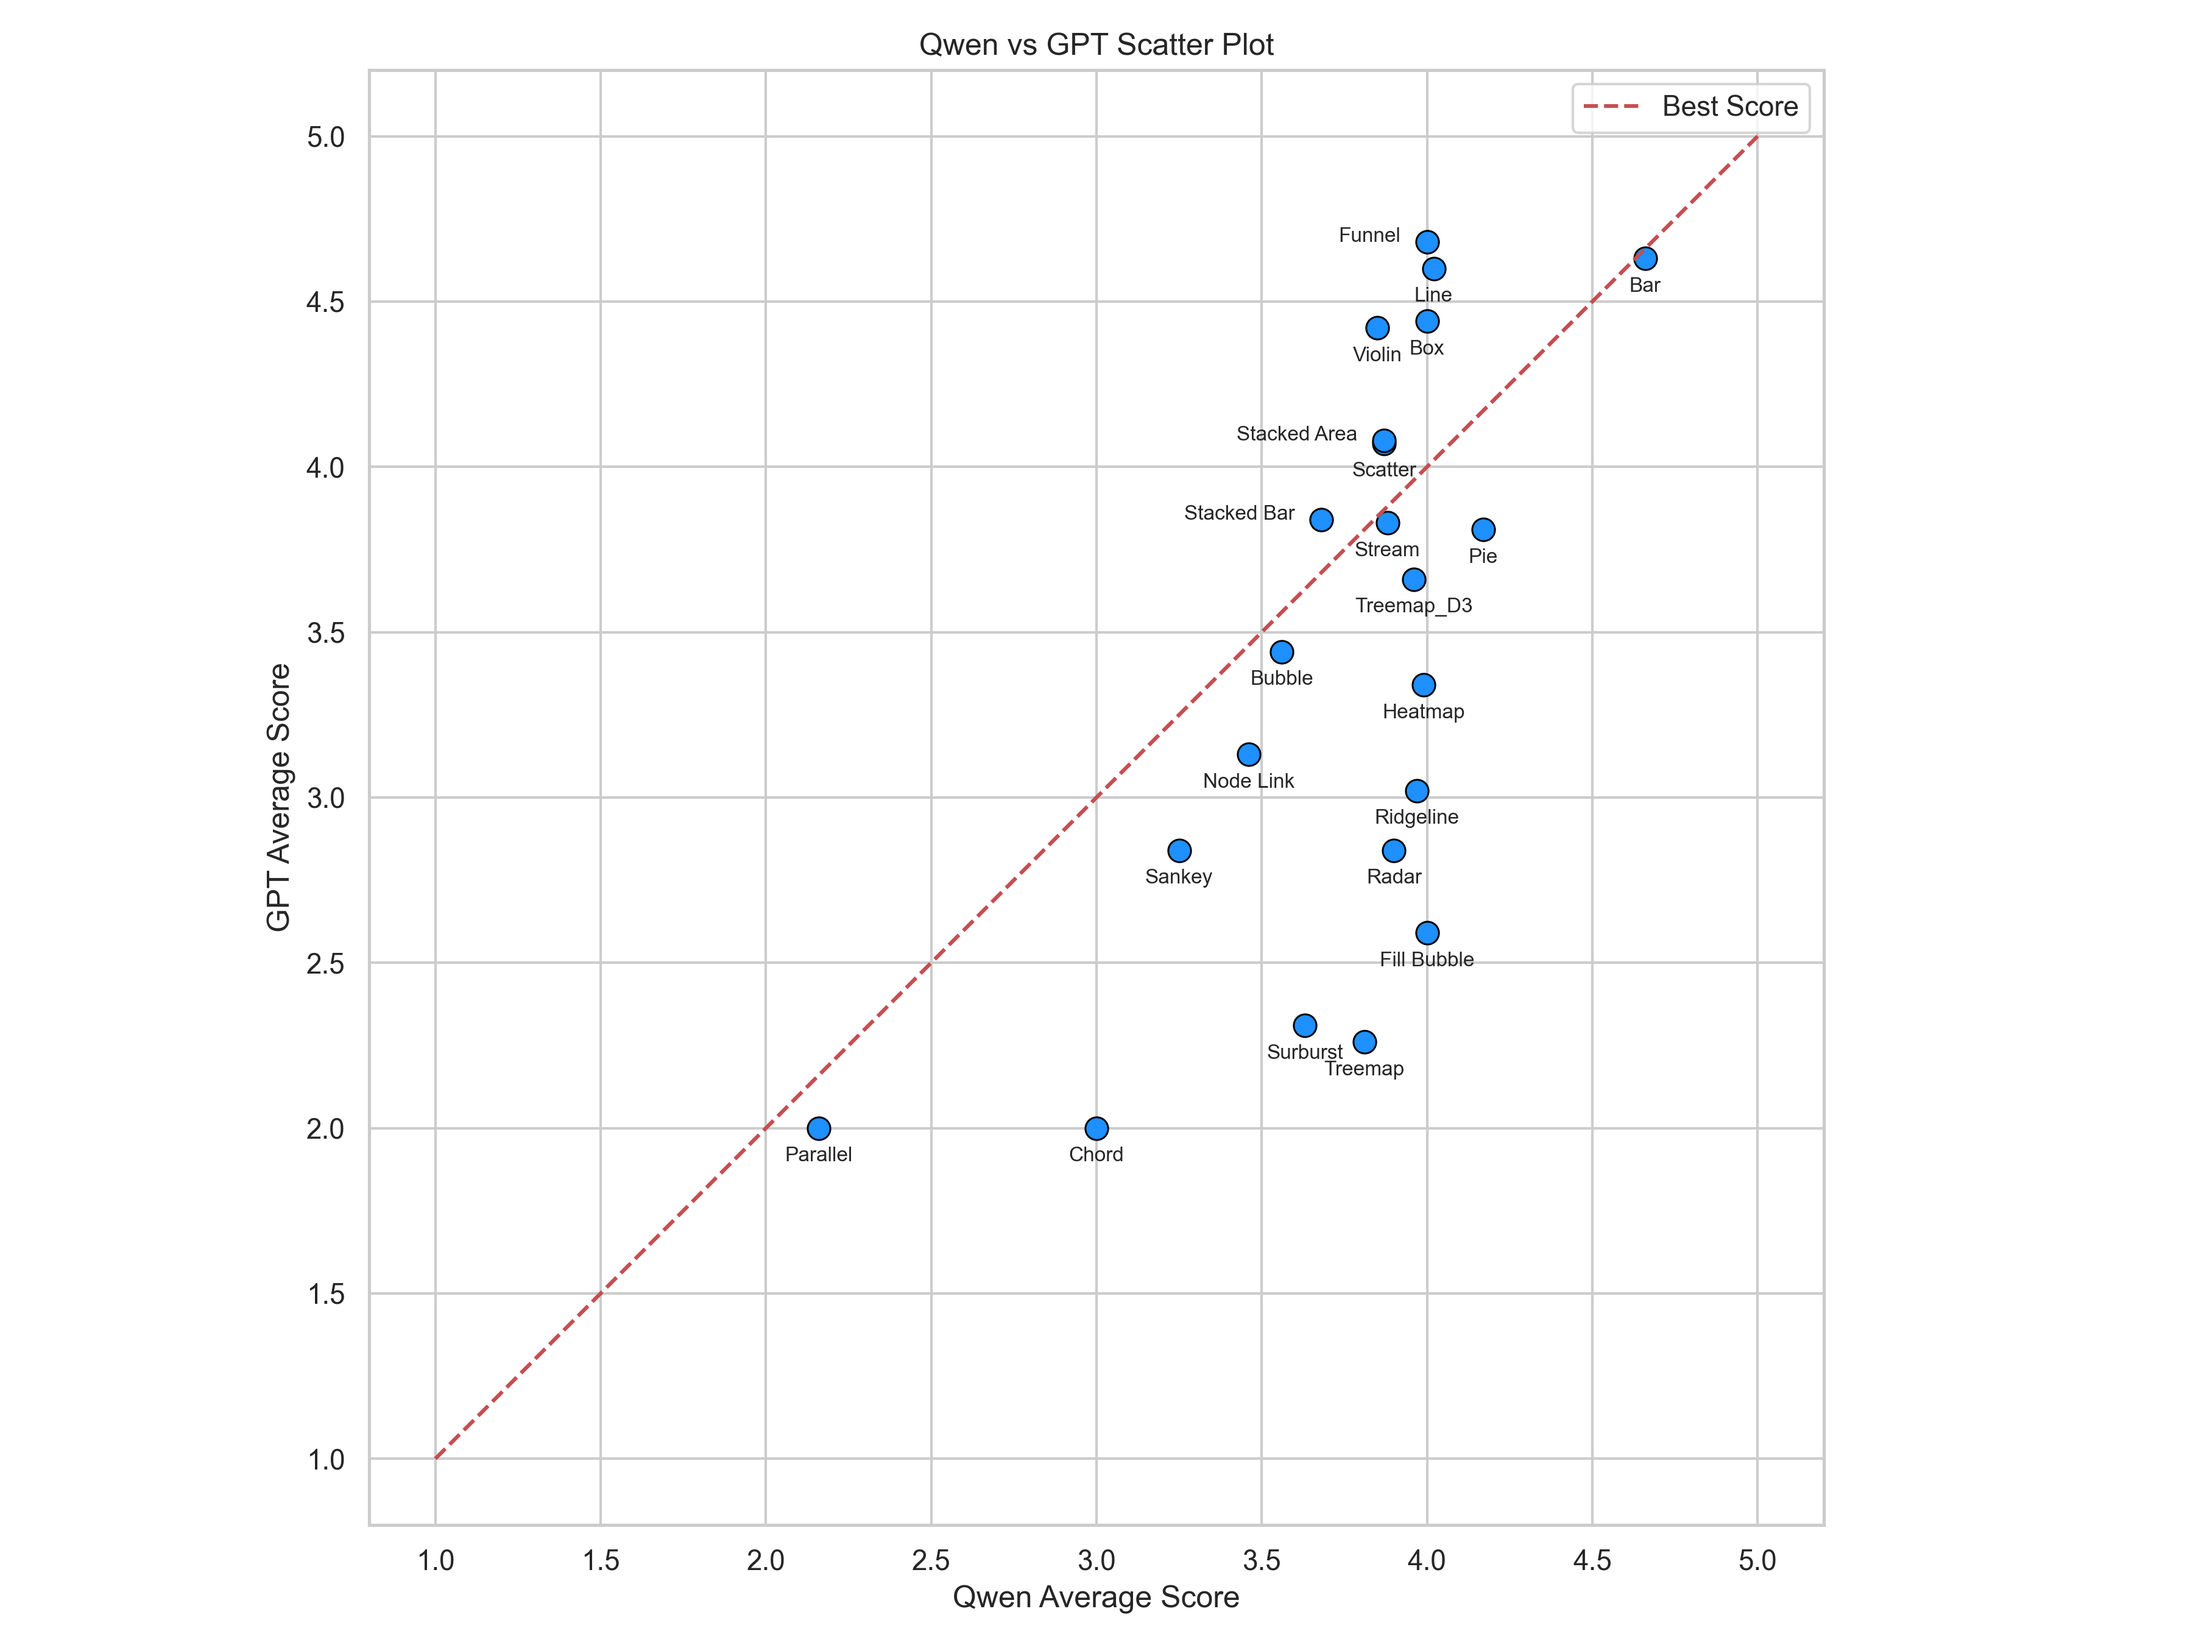
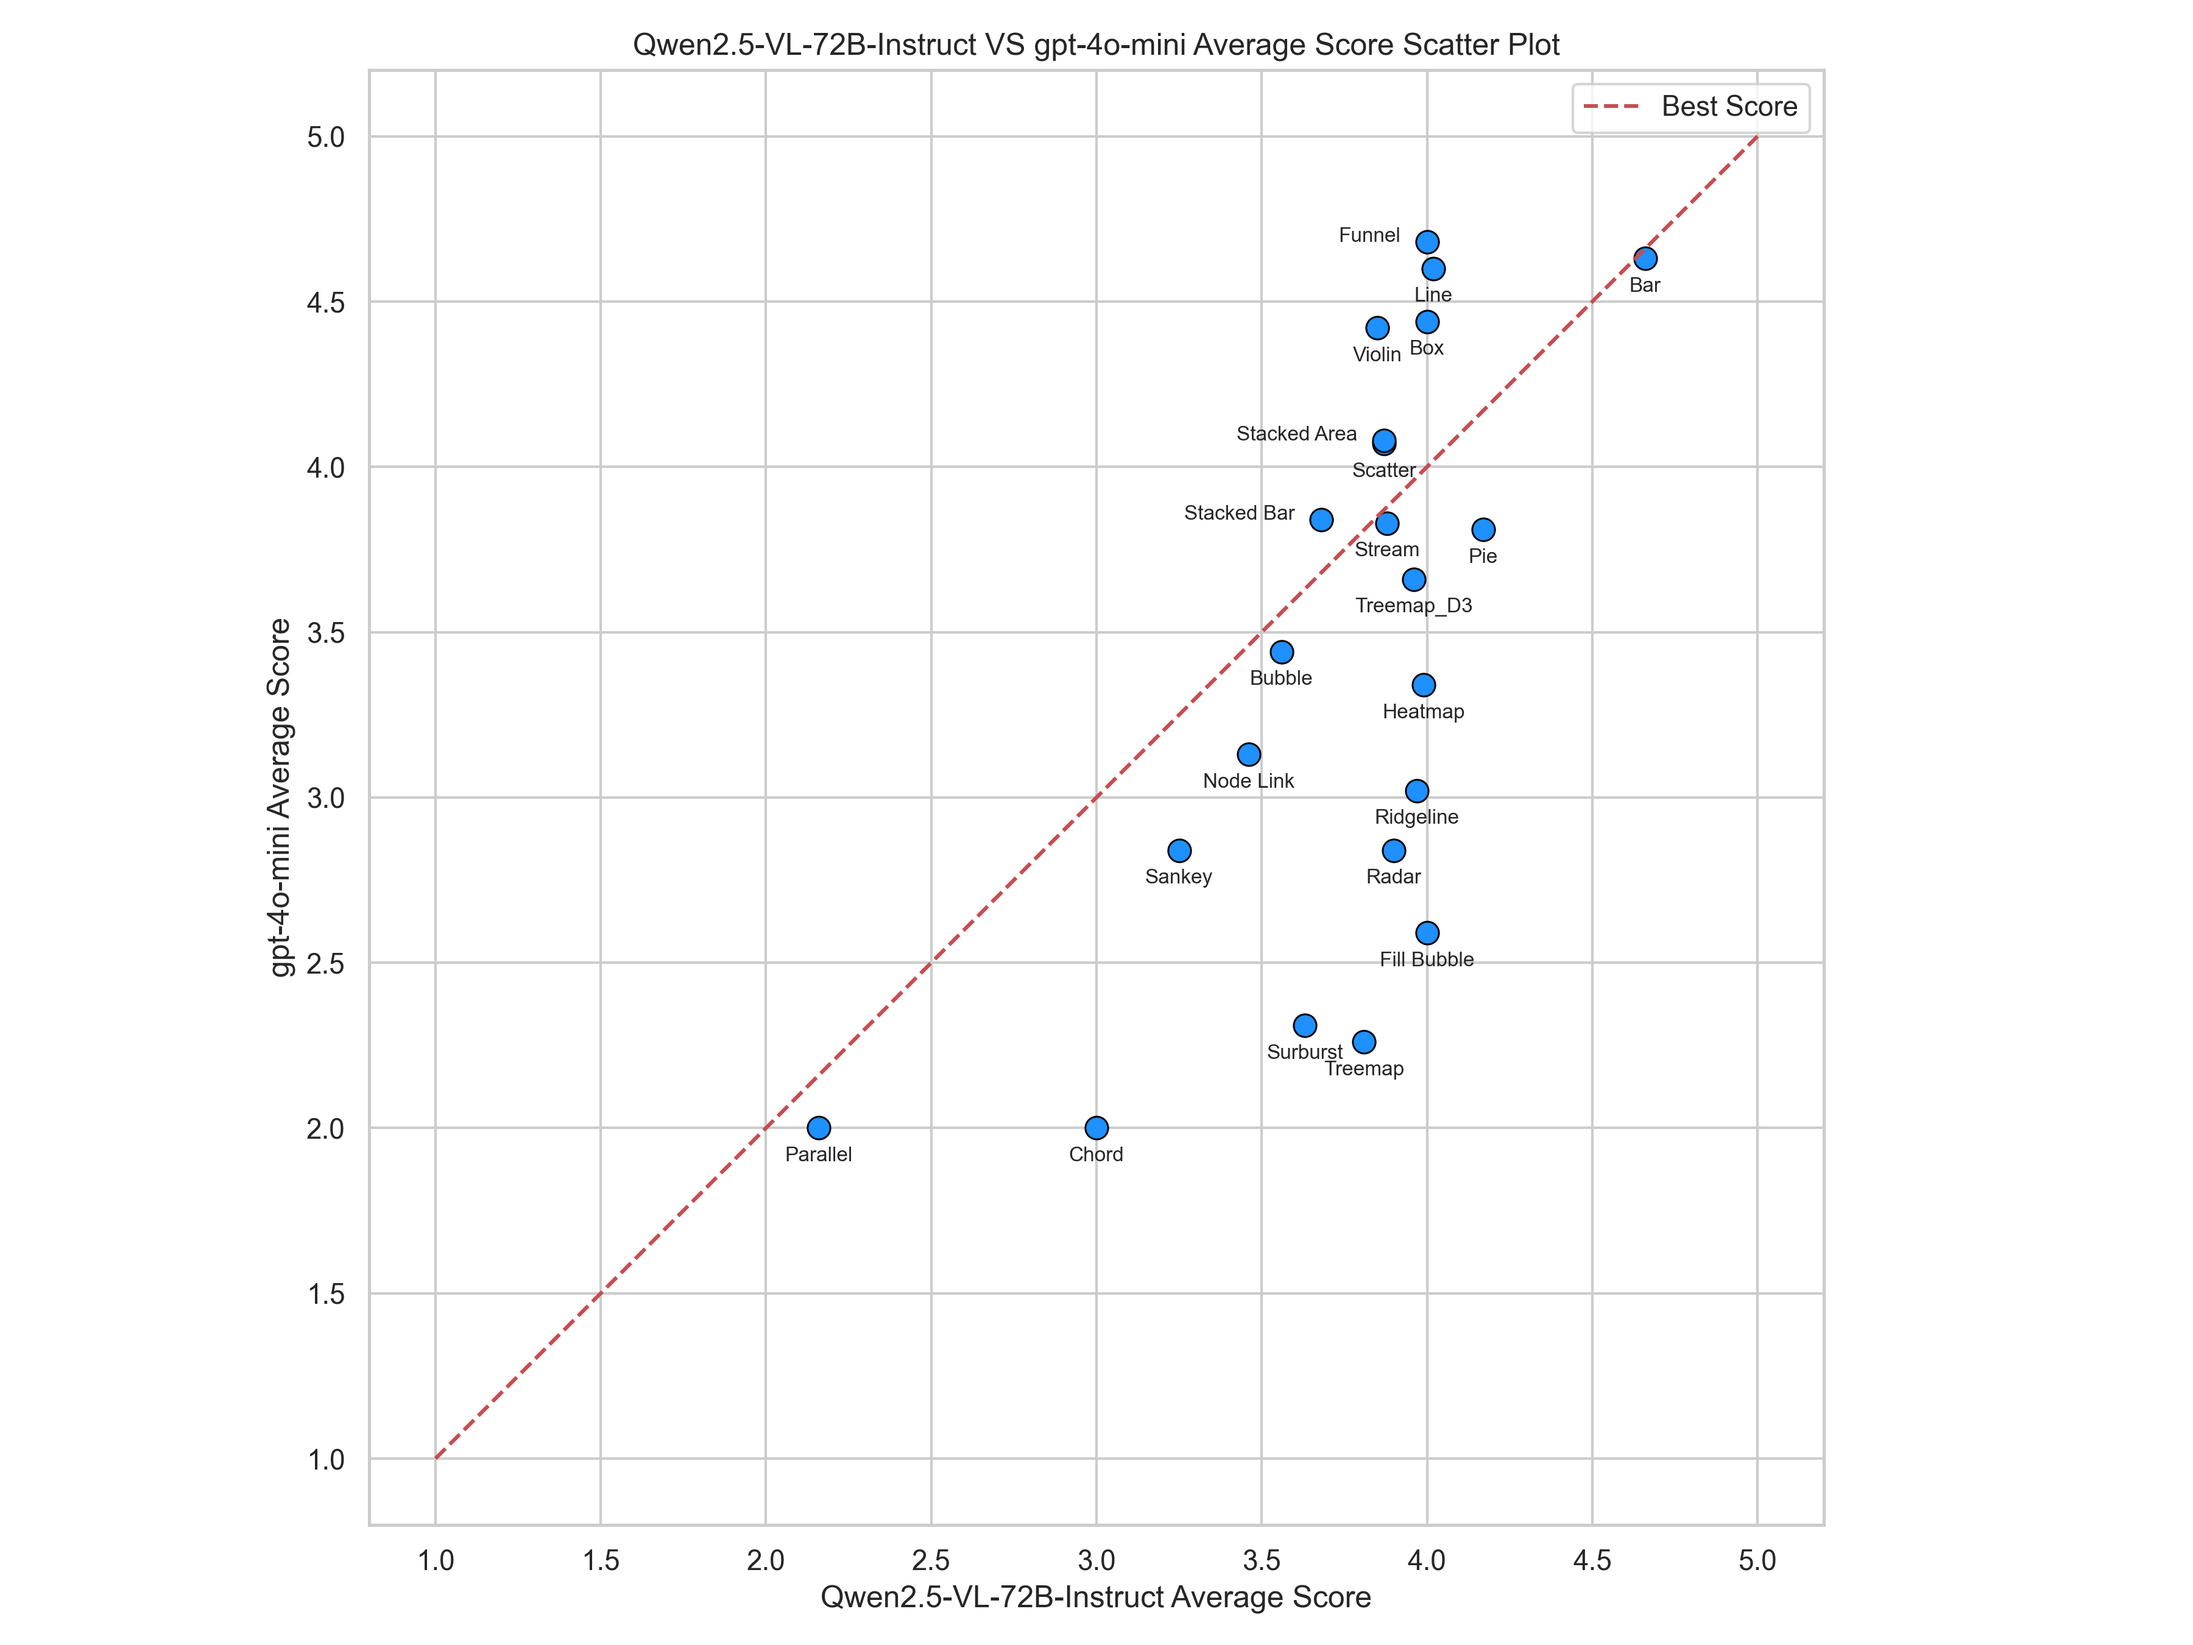
update
1

diff --git a/Readability_chart/scatter_average.py b/Readability_chart/scatter_average.py
@@ -1,4 +1,71 @@
 # --------------------------------散点图-----------------------------------
+import pandas as pd
+import matplotlib.pyplot as plt
+import seaborn as sns
+
+# Constructing the data
+data = {
+    "Chart Type": [
+        "Bar", "Box", "Bubble", "Chord", "Fill Bubble", "Funnel", "Heatmap", "Line",
+        "Node Link", "Parallel", "Pie", "Radar", "Ridgeline", "Sankey", "Scatter",
+        "Stacked Area", "Stacked Bar", "Stream", "Surburst", "Treemap", "Treemap_D3", "Violin"
+    ],
+    "Qwen2.5-VL-72B-Instruct": [
+        4.66, 4.0, 3.56, 3.0, 4.0, 4.0, 3.99, 4.02, 3.46, 2.16, 4.17, 3.9,
+        3.97, 3.25, 3.87, 3.87, 3.68, 3.88, 3.63, 3.81, 3.96, 3.85
+    ],
+    "gpt-4o-mini": [
+        4.63, 4.44, 3.44, 2.0, 2.59, 4.68, 3.34, 4.6, 3.13, 2.0, 3.81, 2.84,
+        3.02, 2.84, 4.07, 4.08, 3.84, 3.83, 2.31, 2.26, 3.66, 4.42
+    ]
+}
+
+df = pd.DataFrame(data)
+
+# Set style
+sns.set(style="whitegrid")
+
+# Increase figure size while maintaining aspect ratio
+plt.figure(figsize=(12, 9))  # Increase figure size
+
+# Plot the scatter plot
+sns.scatterplot(
+    x='Qwen2.5-VL-72B-Instruct',
+    y='gpt-4o-mini',
+    data=df,
+    marker='o',           # Use circles
+    color='dodgerblue',
+    s=80,                 # Point size
+    edgecolor='black'
+)
+
+# Add the diagonal (best score line)
+plt.plot([1, 5], [1, 5], 'r--', label='Best Score')
+
+# Add text labels for each point, placing "Stacked Bar" and "Funnel" labels on the left
+for i in range(len(df)):
+    if df["Chart Type"][i] in ["Stacked Area", "Funnel", "Stacked Bar"]:
+        plt.text(df["Qwen2.5-VL-72B-Instruct"][i] - 0.08, df["gpt-4o-mini"][i], df["Chart Type"][i], fontsize=8, ha='right')
+    else:
+        plt.text(df["Qwen2.5-VL-72B-Instruct"][i], df["gpt-4o-mini"][i] - 0.1, df["Chart Type"][i], fontsize=8, ha='center')
+
+# Add axis labels and title in English
+plt.xlabel("Qwen2.5-VL-72B-Instruct Average Score")
+plt.ylabel("gpt-4o-mini Average Score")
+plt.title("Qwen2.5-VL-72B-Instruct VS gpt-4o-mini Average Score Scatter Plot")
+plt.legend()
+
+# Set the same aspect ratio to avoid distortion
+plt.gca().set_aspect('equal', adjustable='box')
+
+# Display the plot with tight layout
+plt.tight_layout()
+# 导出图像为 PNG 格式，分辨率为 300 DPI
+plt.savefig('../figure/scatter_plot.png', dpi=300)
+# Show the plot
+plt.show()
+
+# ------------------柱状图---------------------------
 # import pandas as pd
 # import matplotlib.pyplot as plt
 # import seaborn as sns
@@ -8,13 +75,13 @@
 #     "Chart Type": [
 #         "Bar", "Box", "Bubble", "Chord", "Fill Bubble", "Funnel", "Heatmap", "Line",
 #         "Node Link", "Parallel", "Pie", "Radar", "Ridgeline", "Sankey", "Scatter",
-#         "Stacked Area", "Stacked Bar", "Stream", "Surburst", "Treemap", "Treemap_D3", "Violin"
+#         "stacked Area", "Stacked Bar", "Stream", "Surburst", "Treemap", "Treemap_D3", "Violin"
 #     ],
-#     "Qwen": [
+#     "Qwen2.5-VL-72B-Instruct": [
 #         4.66, 4.0, 3.56, 3.0, 4.0, 4.0, 3.99, 4.02, 3.46, 2.16, 4.17, 3.9,
 #         3.97, 3.25, 3.87, 3.87, 3.68, 3.88, 3.63, 3.81, 3.96, 3.85
 #     ],
-#     "GPT": [
+#     "gpt-4o-mini": [
 #         4.63, 4.44, 3.44, 2.0, 2.59, 4.68, 3.34, 4.6, 3.13, 2.0, 3.81, 2.84,
 #         3.02, 2.84, 4.07, 4.08, 3.84, 3.83, 2.31, 2.26, 3.66, 4.42
 #     ]
@@ -25,52 +92,40 @@
 # # Set style
 # sns.set(style="whitegrid")
 #
-# # Increase figure size while maintaining aspect ratio
-# plt.figure(figsize=(12, 9))  # Increase figure size
+# # Increase figure size for better readability
+# plt.figure(figsize=(14, 8))
 #
-# # Plot the scatter plot
-# sns.scatterplot(
-#     x='Qwen',
-#     y='GPT',
-#     data=df,
-#     marker='o',           # Use circles
-#     color='dodgerblue',
-#     s=80,                 # Point size
-#     edgecolor='black'
-# )
+# # Melt the data to make it easier to plot
+# df_melted = df.melt(id_vars="Chart Type", value_vars=["Qwen2.5-VL-72B-Instruct", "gpt-4o-mini"], var_name="Model", value_name="Score")
 #
-# # Add the diagonal (best score line)
-# plt.plot([1, 5], [1, 5], 'r--', label='Best Score')
+# # Set a custom color palette with two shades of blue (dark blue and light blue)
+# palette = ['#1f3a69', '#5c8bb5']  # Dark blue and light blue
 #
-# # Add text labels for each point, placing "Stacked Bar" and "Funnel" labels on the left
-# for i in range(len(df)):
-#     if df["Chart Type"][i] in ["Stacked Area", "Funnel", "Stacked Bar"]:
-#         plt.text(df["Qwen"][i] - 0.08, df["GPT"][i], df["Chart Type"][i], fontsize=8, ha='right')
-#     else:
-#         plt.text(df["Qwen"][i], df["GPT"][i] - 0.1, df["Chart Type"][i], fontsize=8, ha='center')
+# # Plot with seaborn's barplot, using the custom palette
+# sns.barplot(x="Chart Type", y="Score", hue="Model", data=df_melted, palette=palette)
 #
-# # Add axis labels and title in English
-# plt.xlabel("Qwen Average Score")
-# plt.ylabel("GPT Average Score")
-# plt.title("Qwen vs GPT Scatter Plot")
-# plt.legend()
+# # Rotate the x-axis labels by 45 degrees clockwise
+# plt.xticks(rotation=45)
 #
-# # Set the same aspect ratio to avoid distortion
-# plt.gca().set_aspect('equal', adjustable='box')
+# # Set y-axis limits to be between 1 and 5
+# plt.ylim(1, 5)
 #
-# # Display the plot with tight layout
-# plt.tight_layout()
-# # 导出图像为 PNG 格式，分辨率为 300 DPI
-# plt.savefig('figure/scatter_plot.png', dpi=300)
+# # Add axis labels and title
+# plt.xlabel("Chart Type")
+# plt.ylabel("Average Score")
+# plt.title("Qwen2.5-VL-72B-Instruct and gpt-4o-mini Average Scores by Bar Chart")
+# plt.legend(title="Model")
+#
 # # Show the plot
+# plt.tight_layout()
+# plt.savefig('../figure/bar.png', dpi=300)
 # plt.show()
-
-# ------------------柱状图---------------------------
+# --------------------------------雷达图-----------------------------------
 # import pandas as pd
+# import numpy as np
 # import matplotlib.pyplot as plt
-# import seaborn as sns
 #
-# # Constructing the data
+# # 数据构建
 # data = {
 #     "Chart Type": [
 #         "Bar", "Box", "Bubble", "Chord", "Fill Bubble", "Funnel", "Heatmap", "Line",
@@ -89,105 +144,50 @@
 #
 # df = pd.DataFrame(data)
 #
-# # Set style
-# sns.set(style="whitegrid")
+# # 准备雷达图数据
+# labels = df['Chart Type']
+# qwen_scores = df['Qwen']
+# gpt_scores = df['GPT']
+# num_vars = len(labels)
+# angles = np.linspace(0, 2 * np.pi, num_vars, endpoint=False).tolist()
 #
-# # Increase figure size for better readability
-# plt.figure(figsize=(14, 8))
+# # 闭合图形
+# qwen_scores = np.concatenate((qwen_scores, [qwen_scores[0]]))
+# gpt_scores = np.concatenate((gpt_scores, [gpt_scores[0]]))
+# angles += angles[:1]
 #
-# # Melt the data to make it easier to plot
-# df_melted = df.melt(id_vars="Chart Type", value_vars=["Qwen", "GPT"], var_name="Model", value_name="Score")
+# # 画图
+# fig, ax = plt.subplots(figsize=(10, 10), subplot_kw=dict(polar=True))
 #
-# # Set a custom color palette with two shades of blue (dark blue and light blue)
-# palette = ['#1f3a69', '#5c8bb5']  # Dark blue and light blue
+# # 数据绘制
+# ax.fill(angles, qwen_scores, color='darkblue', alpha=0.25)
+# ax.fill(angles, gpt_scores, color='#4682B4', alpha=0.25)
+# ax.plot(angles, qwen_scores, color='darkblue', linewidth=2, label='Qwen2.5-VL-72B-Instruct')
+# ax.plot(angles, gpt_scores, color='#4682B4', linewidth=2, label='gpt-4o-mini')
 #
-# # Plot with seaborn's barplot, using the custom palette
-# sns.barplot(x="Chart Type", y="Score", hue="Model", data=df_melted, palette=palette)
+# # 调整标签距离中心的半径位置
+# ax.set_xticks(angles[:-1])
+# ax.set_xticklabels(labels)
+# for label, angle in zip(ax.get_xticklabels(), angles):
+#     label.set_horizontalalignment('center')
+#     label.set_rotation(np.degrees(angle))
+#     label.set_rotation_mode('anchor')
+#     label.set_fontsize(10)
+#     # 控制label离中心的距离（这句是关键）
+#     label.set_position((1.1, 0.0008))  # 1.1是半径比例，适当调整即可
 #
-# # Rotate the x-axis labels by 45 degrees clockwise
-# plt.xticks(rotation=45)
+# # 隐藏极轴刻度
+# ax.set_yticklabels([])
 #
-# # Set y-axis limits to be between 1 and 5
-# plt.ylim(1, 5)
+# # 移动标题更靠上
+# plt.title("Qwen2.5-VL-72B-Instruct VS gpt-4o-mini Scores - Radar Chart", size=16, y=1.15)
 #
-# # Add axis labels and title
-# plt.xlabel("Chart Type")
-# plt.ylabel("Average Score")
-# plt.title("Qwen and GPT Average Scores by Chart Type")
-# plt.legend(title="Model")
+# # 图例
+# plt.legend(loc='upper right', bbox_to_anchor=(1.1, 1.1))
 #
-# # Show the plot
 # plt.tight_layout()
-# plt.savefig('figure/bar.png', dpi=300)
+# plt.savefig('../figure/radar.png', dpi=300)
 # plt.show()
-# --------------------------------雷达图-----------------------------------
-import pandas as pd
-import numpy as np
-import matplotlib.pyplot as plt
-
-# 数据构建
-data = {
-    "Chart Type": [
-        "Bar", "Box", "Bubble", "Chord", "Fill Bubble", "Funnel", "Heatmap", "Line",
-        "Node Link", "Parallel", "Pie", "Radar", "Ridgeline", "Sankey", "Scatter",
-        "stacked Area", "Stacked Bar", "Stream", "Surburst", "Treemap", "Treemap_D3", "Violin"
-    ],
-    "Qwen": [
-        4.66, 4.0, 3.56, 3.0, 4.0, 4.0, 3.99, 4.02, 3.46, 2.16, 4.17, 3.9,
-        3.97, 3.25, 3.87, 3.87, 3.68, 3.88, 3.63, 3.81, 3.96, 3.85
-    ],
-    "GPT": [
-        4.63, 4.44, 3.44, 2.0, 2.59, 4.68, 3.34, 4.6, 3.13, 2.0, 3.81, 2.84,
-        3.02, 2.84, 4.07, 4.08, 3.84, 3.83, 2.31, 2.26, 3.66, 4.42
-    ]
-}
-
-df = pd.DataFrame(data)
-
-# 准备雷达图数据
-labels = df['Chart Type']
-qwen_scores = df['Qwen']
-gpt_scores = df['GPT']
-num_vars = len(labels)
-angles = np.linspace(0, 2 * np.pi, num_vars, endpoint=False).tolist()
-
-# 闭合图形
-qwen_scores = np.concatenate((qwen_scores, [qwen_scores[0]]))
-gpt_scores = np.concatenate((gpt_scores, [gpt_scores[0]]))
-angles += angles[:1]
-
-# 画图
-fig, ax = plt.subplots(figsize=(10, 10), subplot_kw=dict(polar=True))
-
-# 数据绘制
-ax.fill(angles, qwen_scores, color='darkblue', alpha=0.25)
-ax.fill(angles, gpt_scores, color='#4682B4', alpha=0.25)
-ax.plot(angles, qwen_scores, color='darkblue', linewidth=2, label='Qwen')
-ax.plot(angles, gpt_scores, color='#4682B4', linewidth=2, label='GPT')
-
-# 调整标签距离中心的半径位置
-ax.set_xticks(angles[:-1])
-ax.set_xticklabels(labels)
-for label, angle in zip(ax.get_xticklabels(), angles):
-    label.set_horizontalalignment('center')
-    label.set_rotation(np.degrees(angle))
-    label.set_rotation_mode('anchor')
-    label.set_fontsize(10)
-    # 控制label离中心的距离（这句是关键）
-    label.set_position((1.1, 0.001))  # 1.1是半径比例，适当调整即可
-
-# 隐藏极轴刻度
-ax.set_yticklabels([])
-
-# 移动标题更靠上
-plt.title("Qwen vs GPT Scores - Radar Chart", size=16, y=1.15)
-
-# 图例
-plt.legend(loc='upper right', bbox_to_anchor=(1.1, 1.1))
-
-plt.tight_layout()
-plt.savefig('figure/radar.png', dpi=300)
-plt.show()
 
 
 
